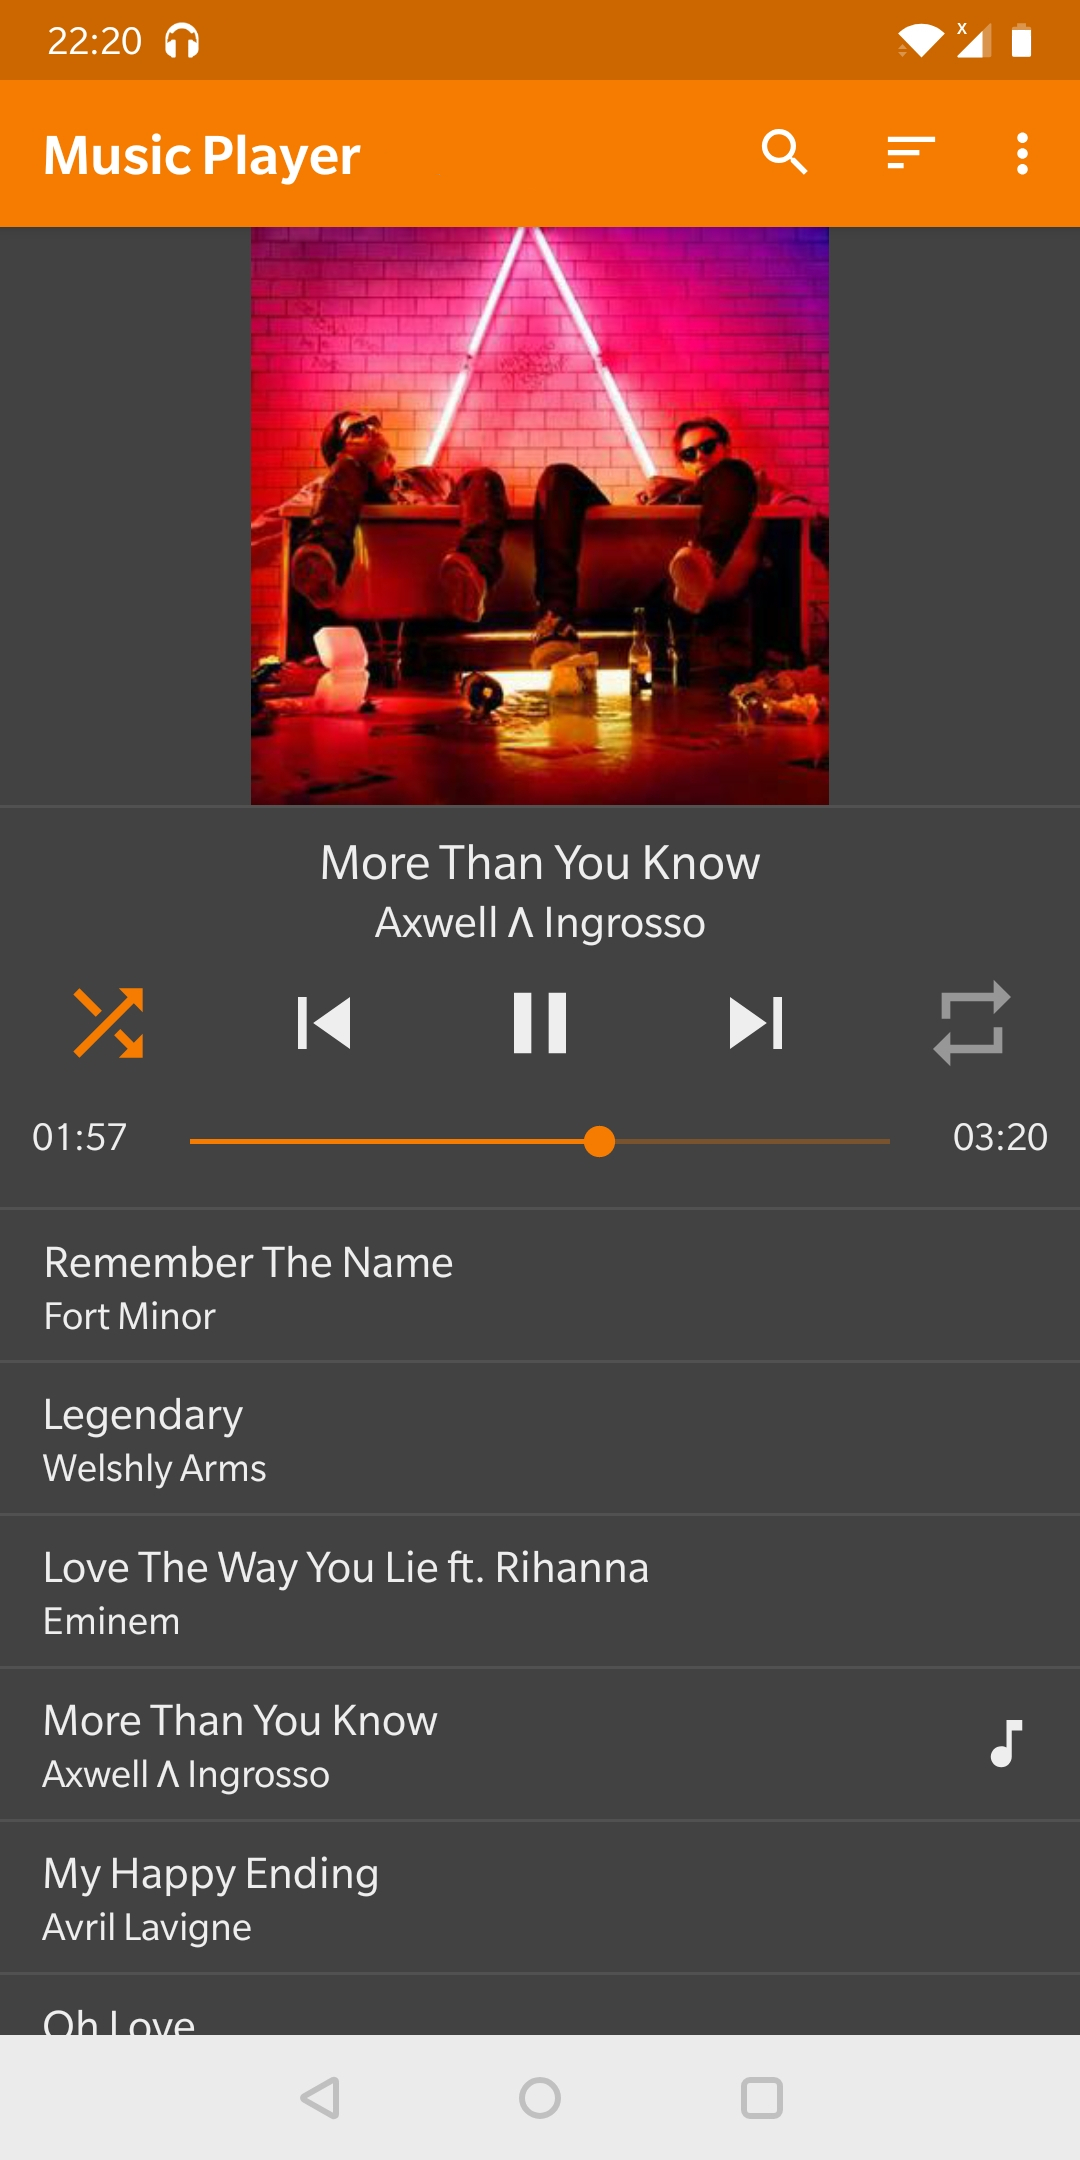
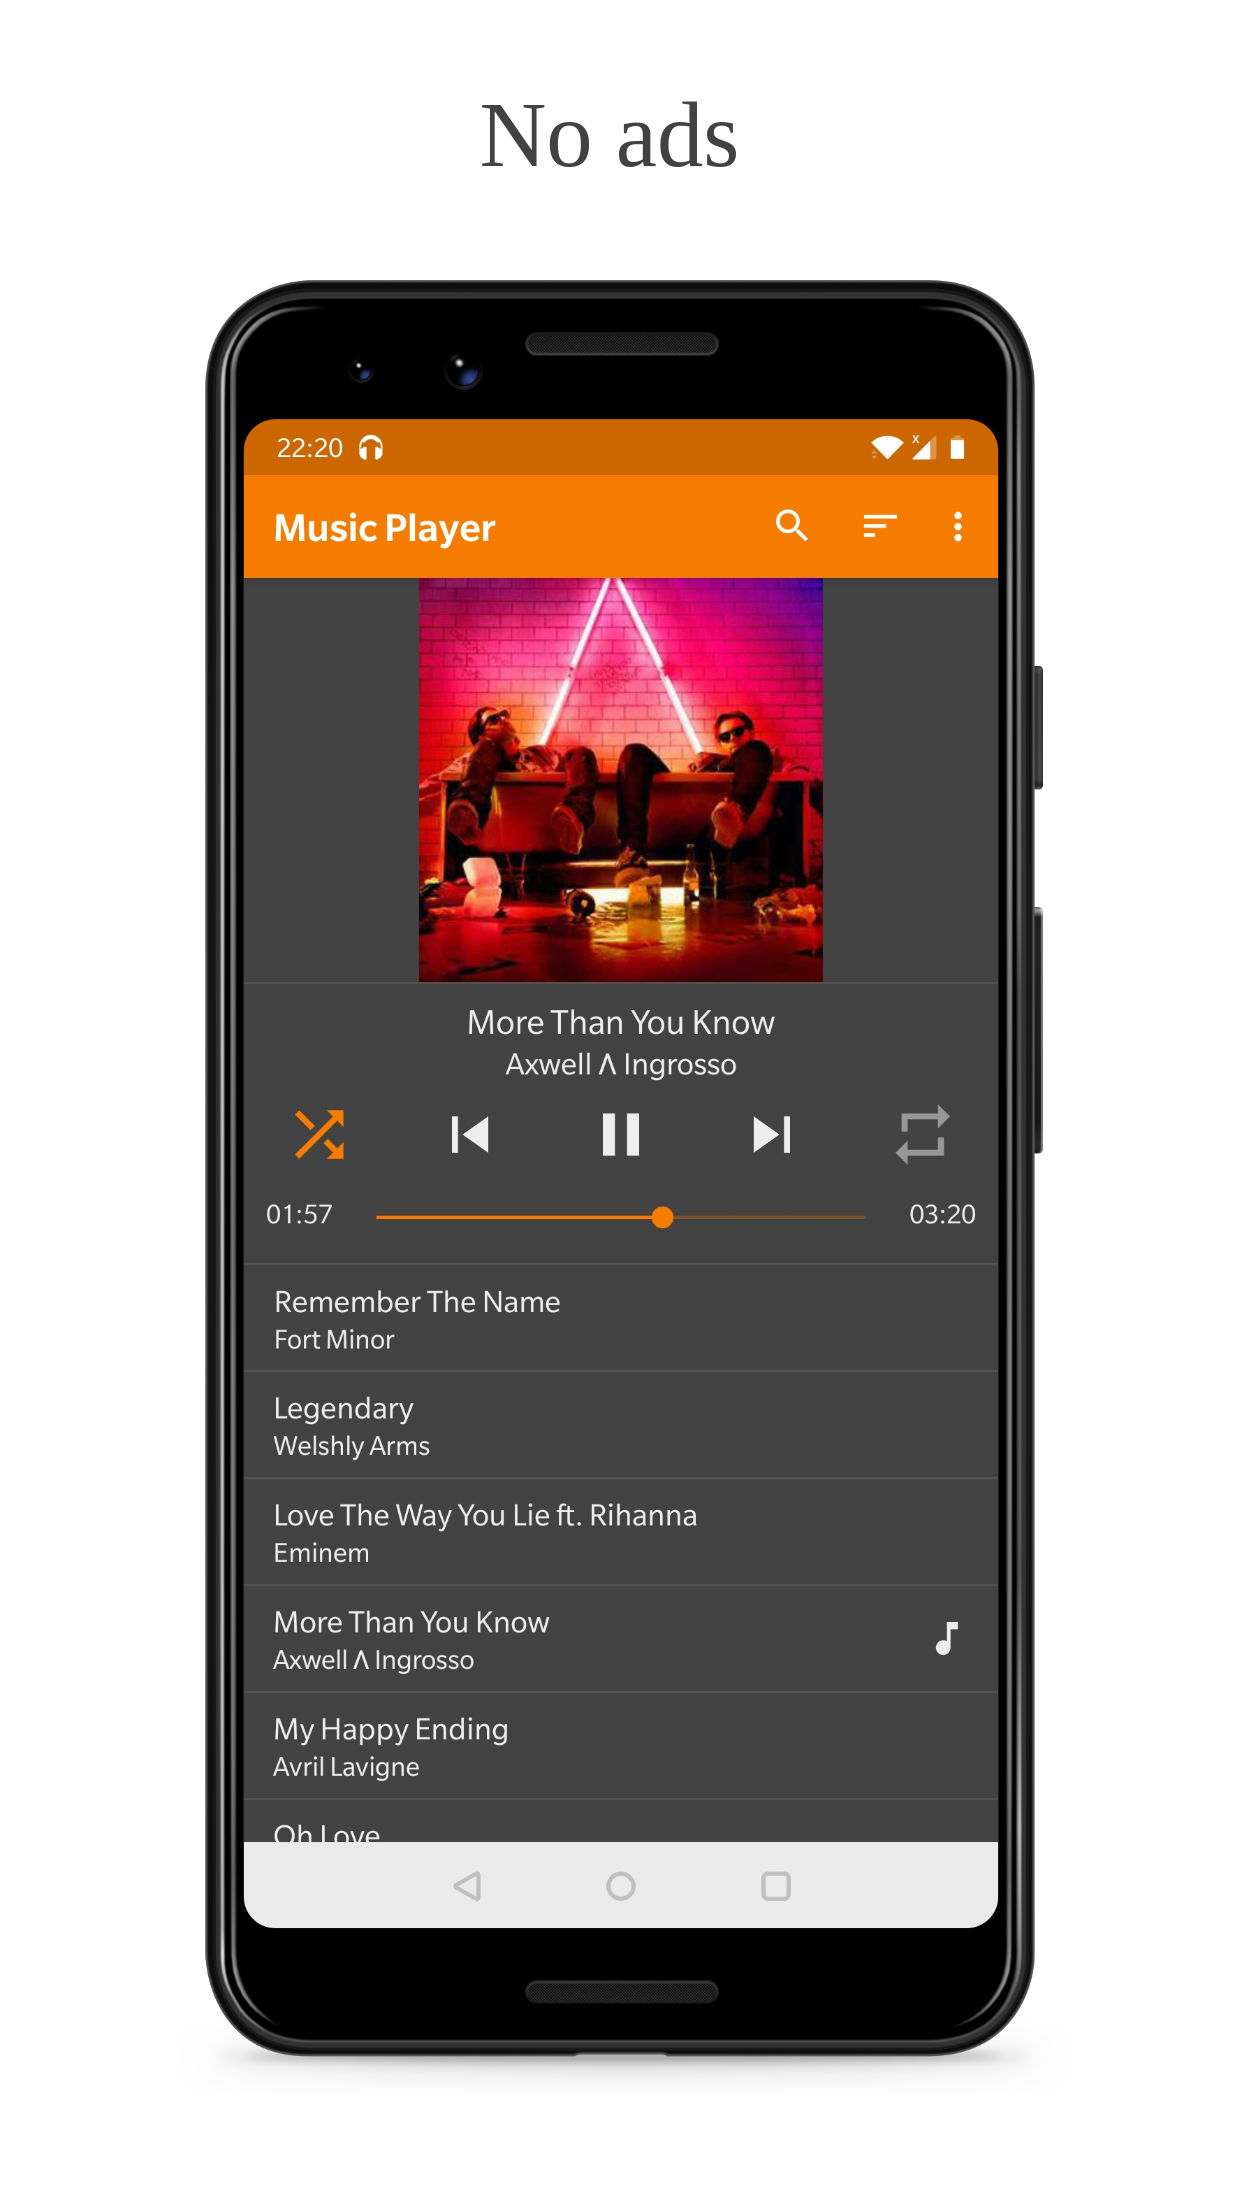
updating the app screenshots

diff --git a/README.md b/README.md
@@ -16,7 +16,8 @@ This app is just one piece of a bigger series of apps. You can find the rest of 
 
 <div style="display:flex;">
 <img alt="App image" src="fastlane/metadata/android/en-US/images/phoneScreenshots/app.jpg" width="30%">
-<img alt="App image" src="fastlane/metadata/android/en-US/images/phoneScreenshots/app_2.png" width="30%">
+<img alt="App image" src="fastlane/metadata/android/en-US/images/phoneScreenshots/app_2.jpg" width="30%">
+<img alt="App image" src="fastlane/metadata/android/en-US/images/phoneScreenshots/app_3.jpg" width="30%">
 </div>
 
 License
